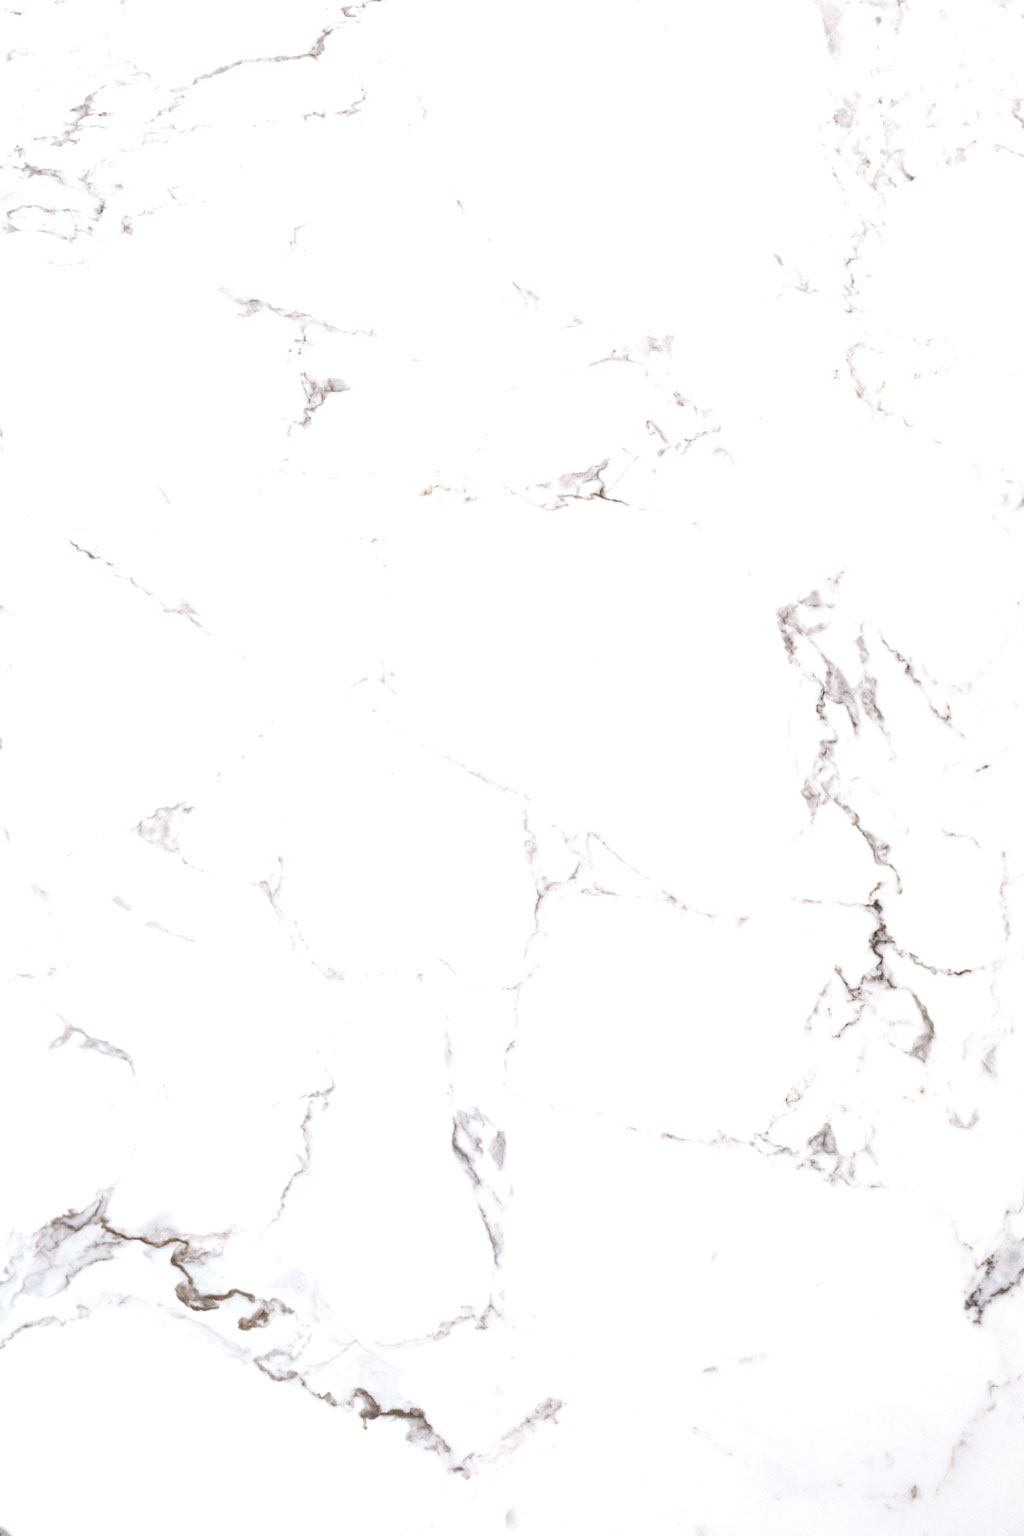
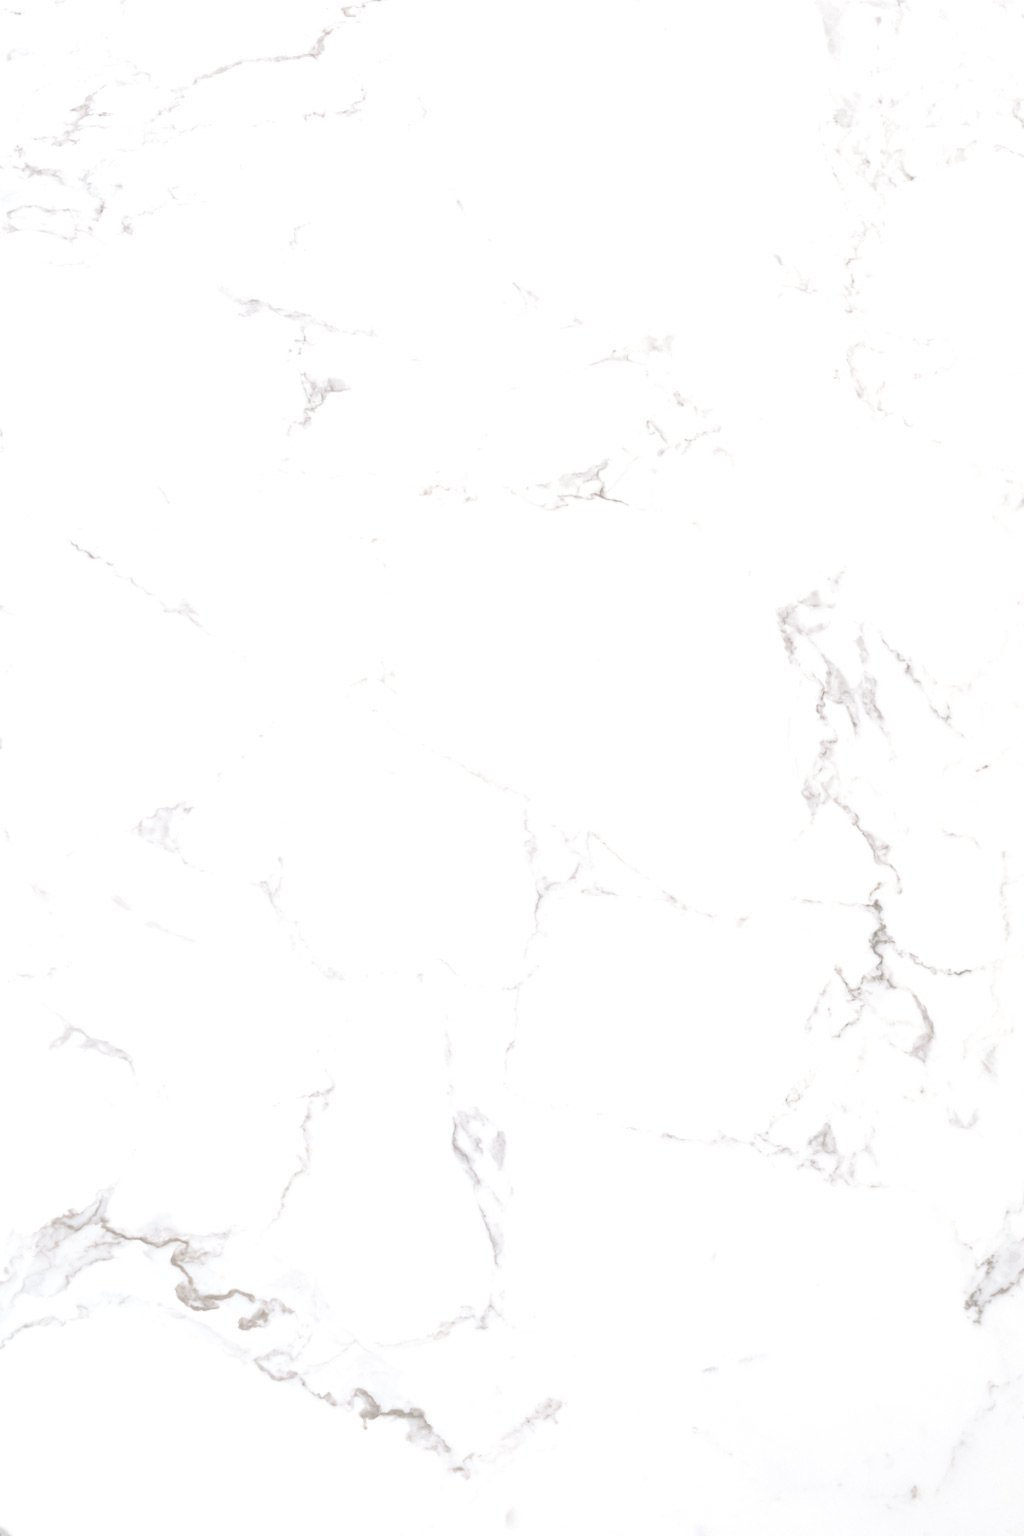
fixed some errors in data

diff --git a/includes/layouts/logoSection.js b/includes/layouts/logoSection.js
@@ -2,13 +2,14 @@ import React from 'react'
 import { BsFillMapFill } from 'react-icons/bs'
 import { FaPaperPlane } from 'react-icons/fa'
 import Link from "next/link"
-export default function LogoSection() {
+import PropTypes from 'prop-types'
+export default function LogoSection({email, phone, logoText, logo, address}) {
   return (
     <div className="grid text-primary-color gap-1 h-full websitePadding py-8 md:justify-center md:grid-cols-3 lg:!py-10">
       <Link href="/" >
         <div className="relative h-full flex flex-row items-center justify-items-start cursor-pointer">
-          <LogoSvg />
-          <h2 className="text-3xl text-bg-black font-sans font-bold tracking-wide"> ElegantStone</h2>
+          {logo}
+          <h2 className="text-3xl text-bg-black font-sans font-bold tracking-wide"> {logoText}</h2>
         </div>
       </Link>
       <div className="flex flex-row items-center">
@@ -16,8 +17,8 @@ export default function LogoSection() {
           <BsFillMapFill />
         </div>
         <div className="text-sm font-bold">
-          <p>tel: <span className="text-gray-900">+382 68 517-422</span></p>
-          <p className="text-gray-400 font-thin">email: elegantstone@gmail.com</p>
+          <p>tel: <span className="text-gray-900">{phone}</span></p>
+          <p className="text-gray-400 font-thin">email: {email}</p>
         </div>
       </div>
       <div className="flex flex-row items-center">
@@ -26,7 +27,7 @@ export default function LogoSection() {
         </div>
         <div className="text-sm font-bold">
           <p><span className="text-gray-900">Address:</span></p>
-          <p className="text-gray-400 font-thin">Biznis zona, Rudeš, Berane, Crna Gora</p>
+          <p className="text-gray-400 font-thin">{address}</p>
         </div>
       </div>
 
@@ -34,25 +35,10 @@ export default function LogoSection() {
   )
 }
 
-
-
-function LogoSvg(props) {
-  return (
-    <svg
-      id="prefix__Layer_1"
-      xmlns="http://www.w3.org/2000/svg"
-      x={0}
-      y={0}
-      viewBox="0 0 1080 1080"
-      xmlSpace="preserve"
-      className="max-h-24 h-full"
-      {...props}
-    >
-      <path
-        className="text-primary-color fill-current"
-        d="M839.8 236.95V34.56H563.42l.01 251.22 166.24 65.7-.42 190.34-55.28.01v-147L341.62 263.49V136.01h55.27v83.85l110.56 43.63V34.56H231.07v608.73h276.38V487.03l-110.56-43.68.02 98.48h-55.29V356.04l222.47 87.91-.67 199.34H839.8V302.43l-165.83-65.48V136.01h55.27v57.32zM109.8 747.88h66.93v18.99h-44.52v29.26h37.36v18.99h-37.36v22.73h45.92v18.99H109.8V747.88zM231.02 747.88h22.42v89.97h43.74v18.99h-66.16V747.88zM346.17 747.88h66.93v18.99h-44.52v29.26h37.36v18.99h-37.36v22.73h45.92v18.99h-68.33V747.88zM544.6 771.07c-8.56-4.2-16.66-5.76-26.31-5.76-20.39 0-35.96 14.16-35.96 37.05 0 23.35 17.59 37.2 38.45 37.2 4.67 0 9.81-.47 13.39-1.71v-18.37h-22.1v-18.99h44.52v51.21c-11.21 5.14-23.5 7-36.58 7-35.02 0-60.4-22.88-60.4-56.35 0-32.22 24.13-56.35 59.15-56.35 12.3 0 23.35 2.33 32.69 7.32l-6.85 17.75zM674.38 840.65h-47.01l-6.23 16.19H597.8l44.05-108.96h18.06l44.05 108.96H680.6l-6.22-16.19zm-39.85-18.68h32.69l-16.34-42.34-16.35 42.34zM749.06 747.88h16.5l51.83 68.33v-68.33h22.42v108.96h-16.5l-51.83-68.49v68.49h-22.42V747.88zM918.68 766.87h-29.11v-18.99h80.63v18.99h-29.11v89.97h-22.41v-89.97zM228.14 962.32c0-17.59 12.45-29.57 35.02-29.57 10.43 0 21.17 2.8 29.26 7.63l-6.85 17.75c-5.6-3.74-13.07-6.07-20.23-6.07-9.81 0-14.48 3.58-14.48 9.18 0 6.07 4.05 9.73 18.84 16.5 19.07 8.72 28.17 18.37 28.17 34.71 0 20.08-13.7 33-39.38 33-11.36 0-23.5-3.27-32.69-8.87l6.85-18.06c7.01 4.83 16.5 7.63 24.91 7.63 10.9 0 17.59-4.36 17.59-11.91 0-8.02-5.68-12.53-19.07-18.37-21.63-9.42-27.94-19.46-27.94-33.55zM368.2 953.6h-29.11v-18.99h80.63v18.99h-29.11v89.97H368.2V953.6zM520.09 932.75c32.69 0 58.37 23.35 58.37 56.35s-25.68 56.35-58.37 56.35-58.37-23.35-58.37-56.35 25.68-56.35 58.37-56.35zm0 93.39c19.77 0 35.65-15.1 35.65-37.05s-15.88-37.05-35.65-37.05c-19.77 0-35.65 15.1-35.65 37.05s15.88 37.05 35.65 37.05zM628.22 934.61h16.5l51.84 68.33v-68.33h22.41v108.96h-16.5l-51.83-68.49v68.49h-22.42V934.61zM776.52 934.61h66.93v18.99h-44.52v29.26h37.36v18.99h-37.36v22.73h45.92v18.99h-68.33V934.61z"
-      />
-    </svg>
-  )
+LogoSection.propTypes = {
+    logoText: PropTypes.string.isRequired,
+    logo: PropTypes.element,
+    address: PropTypes.string.isRequired, 
+    phone: PropTypes.string.isRequired,
+    email: PropTypes.string.isRequired
 }
-

diff --git a/includes/footer.js b/includes/footer.js
@@ -12,16 +12,12 @@ export default function Footer() {
         <Links links={data.footer.widgets.links} />
         <div className='p-3'>
           <h3 className='pb-6'> Servisi </h3>
-          <p className='flex items-center'> <FcCheckmark className='mr-3' /> Prodaja dekorativnog kamena </p>
-          <p className='flex items-center'> <FcCheckmark className='mr-3' /> Obrada i ugradnja </p>
-          <p className='flex items-center'> <FcCheckmark className='mr-3' />  Distribucija i dostava gotovog proizvoda</p>
-          <p className='flex items-center'> <FcCheckmark className='mr-3' /> Oblaganje nadgrobnih spomenika </p>
-          <p className='flex items-center'> <FcCheckmark className='mr-3' /> Oblaganje nadgrobnih spomenika </p>
-          <p className='flex items-center'> <FcCheckmark className='mr-3' />  Oblaganje nadgrobnih spomenika </p>
+          {data.footer.widgets.services.map(serv => <p className='flex items-center'> <FcCheckmark className='mr-3' />{serv}</p>)}
+
         </div>
         <div className='p-3'>
           <h3 className='pb-6'> Info </h3>
-          <p className='flex items-center'> <FcOvertime className='mr-3' /> Radno vrijeme: 08:00h - 16:00h</p>
+          <p className='flex items-center'> <FcOvertime className='mr-3' /> {data.contact.generalInfo.workTime.label} : {data.contact.generalInfo.workTime.text}</p>
           <p className='flex items-center'> <FcSms className='mr-3' /> <a href={data.contact.generalInfo.email.text}>{data.contact.generalInfo.email.text}</a>  </p>
           <p className='flex items-center'> <FcCellPhone className='mr-3' />  {data.contact.generalInfo.phone.text} </p>
           <p className='flex items-center'> <FcOvertime className='mr-3' /> {data.contact.generalInfo.address.text} </p>
@@ -30,7 +26,7 @@ export default function Footer() {
       <div
         className="footerCredit bg-primary-color w-full min-h-full h-20 websitePadding text-bg-black-contrast-text items-center gap-2"
       >
-        <div className='px-5'>Copyright 2021 All rights reserved | This website is made by <span> <a className="text-bg-black font-bold" href="https://www.enisjasarovic.com">Enis J.</a></span></div>
+        <div className='px-5'>Copyright {new Date().getFullYear()}. - All rights reserved | This website is made by <span> <a className="text-bg-black font-bold" href="https://www.enisjasarovic.com">Enis J.</a></span></div>
         <div></div>
 
       </div>

diff --git a/includes/buildingBlocks/LogoSVG.js b/includes/buildingBlocks/LogoSVG.js
@@ -1,0 +1,19 @@
+export default function LogoSvg(props) {
+  return (
+    <svg
+      id="prefix__Layer_1"
+      xmlns="http://www.w3.org/2000/svg"
+      x={0}
+      y={0}
+      viewBox="0 0 1080 1080"
+      xmlSpace="preserve"
+      className="max-h-24 h-full"
+      {...props}
+    >
+      <path
+        className="text-primary-color fill-current"
+        d="M839.8 236.95V34.56H563.42l.01 251.22 166.24 65.7-.42 190.34-55.28.01v-147L341.62 263.49V136.01h55.27v83.85l110.56 43.63V34.56H231.07v608.73h276.38V487.03l-110.56-43.68.02 98.48h-55.29V356.04l222.47 87.91-.67 199.34H839.8V302.43l-165.83-65.48V136.01h55.27v57.32zM109.8 747.88h66.93v18.99h-44.52v29.26h37.36v18.99h-37.36v22.73h45.92v18.99H109.8V747.88zM231.02 747.88h22.42v89.97h43.74v18.99h-66.16V747.88zM346.17 747.88h66.93v18.99h-44.52v29.26h37.36v18.99h-37.36v22.73h45.92v18.99h-68.33V747.88zM544.6 771.07c-8.56-4.2-16.66-5.76-26.31-5.76-20.39 0-35.96 14.16-35.96 37.05 0 23.35 17.59 37.2 38.45 37.2 4.67 0 9.81-.47 13.39-1.71v-18.37h-22.1v-18.99h44.52v51.21c-11.21 5.14-23.5 7-36.58 7-35.02 0-60.4-22.88-60.4-56.35 0-32.22 24.13-56.35 59.15-56.35 12.3 0 23.35 2.33 32.69 7.32l-6.85 17.75zM674.38 840.65h-47.01l-6.23 16.19H597.8l44.05-108.96h18.06l44.05 108.96H680.6l-6.22-16.19zm-39.85-18.68h32.69l-16.34-42.34-16.35 42.34zM749.06 747.88h16.5l51.83 68.33v-68.33h22.42v108.96h-16.5l-51.83-68.49v68.49h-22.42V747.88zM918.68 766.87h-29.11v-18.99h80.63v18.99h-29.11v89.97h-22.41v-89.97zM228.14 962.32c0-17.59 12.45-29.57 35.02-29.57 10.43 0 21.17 2.8 29.26 7.63l-6.85 17.75c-5.6-3.74-13.07-6.07-20.23-6.07-9.81 0-14.48 3.58-14.48 9.18 0 6.07 4.05 9.73 18.84 16.5 19.07 8.72 28.17 18.37 28.17 34.71 0 20.08-13.7 33-39.38 33-11.36 0-23.5-3.27-32.69-8.87l6.85-18.06c7.01 4.83 16.5 7.63 24.91 7.63 10.9 0 17.59-4.36 17.59-11.91 0-8.02-5.68-12.53-19.07-18.37-21.63-9.42-27.94-19.46-27.94-33.55zM368.2 953.6h-29.11v-18.99h80.63v18.99h-29.11v89.97H368.2V953.6zM520.09 932.75c32.69 0 58.37 23.35 58.37 56.35s-25.68 56.35-58.37 56.35-58.37-23.35-58.37-56.35 25.68-56.35 58.37-56.35zm0 93.39c19.77 0 35.65-15.1 35.65-37.05s-15.88-37.05-35.65-37.05c-19.77 0-35.65 15.1-35.65 37.05s15.88 37.05 35.65 37.05zM628.22 934.61h16.5l51.84 68.33v-68.33h22.41v108.96h-16.5l-51.83-68.49v68.49h-22.42V934.61zM776.52 934.61h66.93v18.99h-44.52v29.26h37.36v18.99h-37.36v22.73h45.92v18.99h-68.33V934.61z"
+      />
+    </svg>
+  )
+}

diff --git a/data/generalData.js b/data/generalData.js
@@ -1,12 +1,14 @@
-import { FaFacebookF, FaTwitter, FaPhone, FaUserAlt, FaRegEnvelope, FaLocationArrow, FaInstagram } from "react-icons/fa";
+import { FaFacebookF, FaTwitter, FaPhone, FaUserAlt, FaRegEnvelope, FaLocationArrow, FaInstagram, FaCalendarTimes } from "react-icons/fa";
 
 export default {
     contact: {
         generalInfo: {
             address: { text: "Biznis zona, Rudeš, Berane, Crna Gora", icon: FaLocationArrow, label: "Adresa" },
-            phone: { text: "(+382)68/523-530", icon: FaPhone, label: "Telefon" },
-            person: { text: "Miketa Vučeljić", icon: FaUserAlt, role: "direktor", label: "Pozicija" },
-            email: { text: "elegantstone@gmail.com", icon: FaRegEnvelope, label: "Email" }
+            phone: { text: "(+382)68/820-941", icon: FaPhone, label: "Telefon" },
+            phone2: { text: "(+382)68/261-553", icon: FaPhone, label: "Telefon" },
+           /*  person: { text: "Miketa Vučeljić", icon: FaUserAlt, role: "direktor", label: "Pozicija" }, */
+            email: { text: "elegantstone@gmail.com", icon: FaRegEnvelope, label: "Email" },
+            workTime: {text: "08:00h - 16:00h", icon: FaCalendarTimes, label: "Radno vrijeme"}
         },
         socialLinks: [
             {
@@ -33,8 +35,8 @@ export default {
                 { label: "Materijali", href: "/materials" },
                 { label: "Projekti", href: "/projects" },
                 { label: "Kontakt", href: "/contact" },
-
-            ]
+            ],
+            services: ["Prodaja dekorativnog kamena", "Obrada i ugradnja", "Distribucija i dostava gotovog proizvoda", "Oblaganje grobnica", "Izrada spomenika", "Izrada kuhinjskih radnih ploča, šankova..." ]
         }
     },
     navbar: [

diff --git a/includes/layouts/homeLayout.js b/includes/layouts/homeLayout.js
@@ -6,8 +6,10 @@ import Navbar from '../navbar'
 import Footer from '../footer'
 import PropTypes from 'prop-types'
 import data from '../../data/generalData';
+import LogoSvg from '../buildingBlocks/LogoSVG'
 
 function HomeLayout(props) {
+    const { email, address, phone } = data.contact.generalInfo
     return (
         <div className="max-w-full box-border pt-14 flex flex-col mx-auto w-100vw overflow-x-hidden border min-h-screen">
             <Head>
@@ -20,8 +22,8 @@ function HomeLayout(props) {
                 <script src="https://unpkg.com/rive-js@0.7.16/dist/rive.min.js"></script>
                 <script src="https://cdn2.woxo.tech/a.js#61851848ce106e0016778129" async data-usrc></script>
             </Head>
-            <TopHeader socialLinks={data.contact.socialLinks} email={data.contact.generalInfo.email}/>
-            <LogoSection />
+            <TopHeader socialLinks={data.contact.socialLinks} email={email}/>
+            <LogoSection address={address.text} email={email.text} logo={<LogoSvg />} phone={phone.text} logoText="ElegantStone" />
             <Navbar pages={data.navbar} />
             {props.children}
             <Footer />

diff --git a/styles/globals.css b/styles/globals.css
@@ -61,8 +61,8 @@ textarea {
 
 body {
   @apply items-center w-['1920px'] overflow-x-hidden;
-  background-image: url('../public/images/background-white.jpg')!important;
-  background-image: linear-gradient(to bottom, rgba(255,255,255,0.8) 0%,rgba(255,255,255,0.8) 100%), url('../public/images/background-white.jpg')!important;
+  background-image: url(../public/images/background-white.webp)!important;
+  /* background-image: linear-gradient(to bottom, rgba(255,255,255,0.8) 0%,rgba(255,255,255,0.8) 100%), url('../public/images/background-white.jpg')!important; */
 
 }
 
